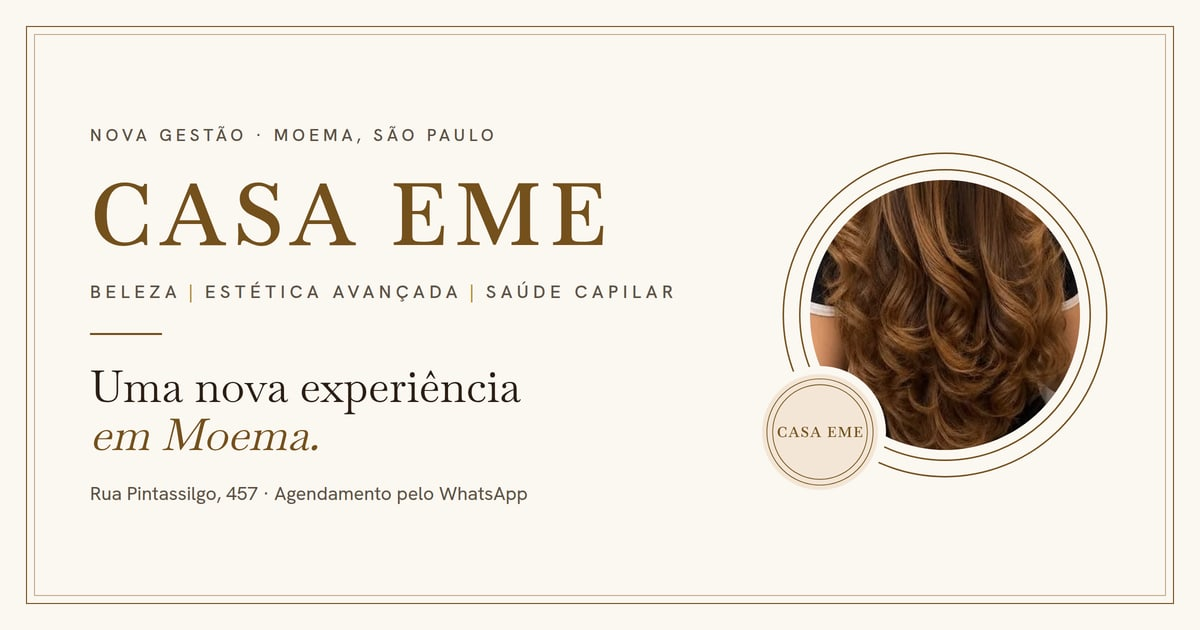
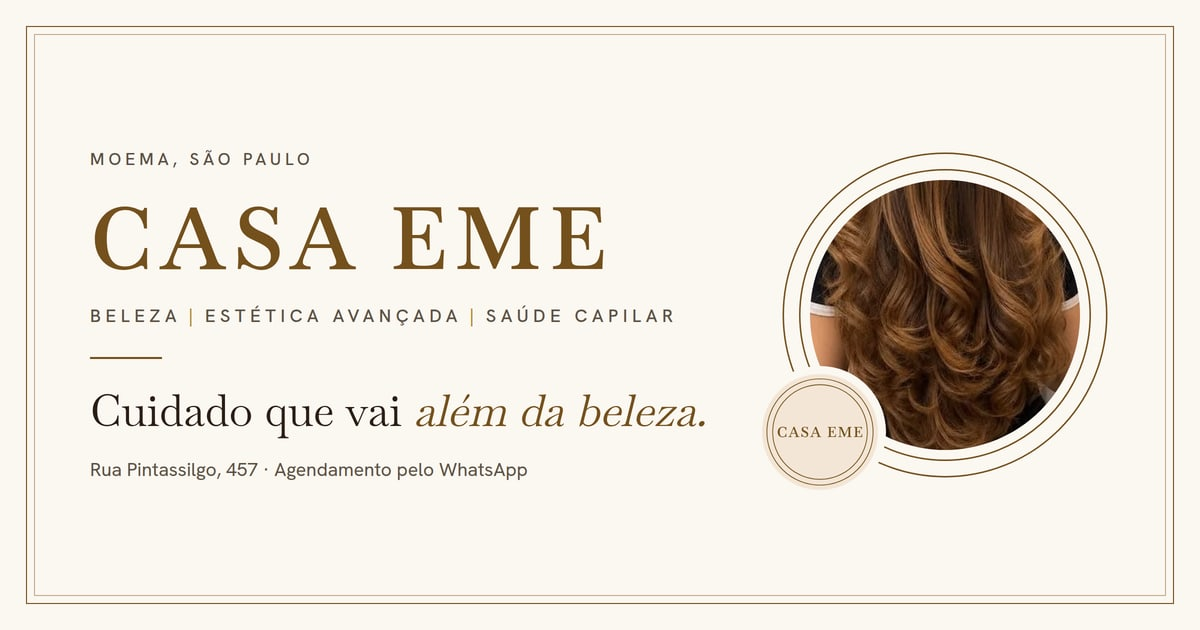
Sem "nova gestão" no site; legenda nova na foto do Gilberto
- Topo da home: sobretítulo só "Moema, São Paulo".
- Manifesto: rótulo "Manifesto". Página Sobre: título, descrição, chamada,
  rótulo "A casa", "Uma casa na Rua Pintassilgo" e texto sem "sob nova
  gestão". business.js perde os campos lema/gestao, que não eram usados.
- Cartão de compartilhamento refeito: agora repete o sobretítulo e o lema
  do topo (make-og.js lê destaques.js), sem "Nova gestão" nem "Uma nova
  experiência".
- Foto do Gilberto: "Gilberto · 30 anos dedicados à arte de transformar
  cabelos e valorizar cada detalhe".
- Teste reprova qualquer menção a nova gestão ou mudança de marca.

Claude-Session: https://claude.ai/code/session_01FKi8yNiR2GjiTsqC7CpoMj

Changed region(s): [[0.0617, 0.2111, 0.555, 0.573], [0.0617, 0.573, 0.5858, 0.8143]]

diff --git a/tools/test.js b/tools/test.js
@@ -317,6 +317,9 @@ const proibidos = [
   [/perca (at[ée] )?\d+|emagre[çc]a \d+|\d+\s?kg\b|\d+ quilos|em \d+ (dias|semanas) voc[eê]/i, 'promessa de emagrecimento'],
   [/cura (a |da )?(calv[ií]cie|alopecia|queda)|fim da (calv[ií]cie|queda)|nascer cabelo em/i, 'promessa capilar'],
   [/Rejane( Rabelo)?,? (é |a )?(m[ée]dica|dermatologista)|(m[ée]dica|dermatologista) Rejane/i, 'Dra. Rejane apresentada como médica'],
+  /* A casa pediu: quem visita não precisa saber da troca de gestão nem da
+     mudança de marca. */
+  [/nova gest[aã]o|sob nova (gest|dire|administra)|novos? (donos?|propriet[aá]rios?)|novo cap[ií]tulo|nova fase|rebranding|nova (marca|identidade)/i, 'menção a nova gestão ou mudança de marca'],
 ];
 /* Tempo de carreira informado pela casa (equipe.js) não conta como invenção. */
 const informados = Object.values(equipe).map((p) => p.experiencia).filter(Boolean);
@@ -415,7 +418,8 @@ const gilberto = equipe.gilberto;
 for (const pagina of ['index.html', 'sobre/index.html']) {
   const texto = textoDe(html[pagina]);
   ok(html[pagina].includes(`id="${gilberto.ancora}"`), `${pagina}: seção de quem cuida da beleza`);
-  ok(texto.includes(gilberto.funcao) && texto.includes(gilberto.experiencia), `${pagina}: função e experiência do Gilberto`);
+  ok(texto.toLowerCase().includes(gilberto.funcao.toLowerCase()) && texto.includes(gilberto.experiencia), `${pagina}: função e experiência do Gilberto`);
+  ok(texto.includes(gilberto.legenda), `${pagina}: legenda da foto do Gilberto`);
   ok(html[pagina].includes('/equipe/gilberto-'), `${pagina}: foto do Gilberto`);
 }
 ok(/categoria__responsavel[\s\S]{0,200}Gilberto/.test(html['servicos/index.html']), 'serviços: beleza com o Gilberto como responsável');

diff --git a/tools/make-og.js b/tools/make-og.js
@@ -14,6 +14,7 @@ import { readFile } from 'node:fs/promises';
 import { fileURLToPath } from 'node:url';
 import { chromium } from 'playwright-core';
 import sharp from 'sharp';
+import destaques from '../src/_data/destaques.js';
 
 const RAIZ = new URL('../', import.meta.url);
 const EXECUTAVEL = process.env.CHROMIUM || '/opt/pw-browsers/chromium';
@@ -31,6 +32,11 @@ const janela = (
     .jpeg({ quality: 92 })
     .toBuffer()
 ).toString('base64');
+
+/* Sobretítulo e lema vêm da primeira dobra (destaques.js → hero): o cartão
+   repete o que a home diz, sem texto próprio para ficar desatualizado. */
+const { sobre, lema, enfase } = destaques.hero;
+const lemaHtml = lema.replace(enfase, `<em>${enfase}</em>`);
 
 const html = `<!doctype html>
 <html lang="pt-BR"><head><meta charset="utf-8"><style>
@@ -66,11 +72,11 @@ const html = `<!doctype html>
   <div class="moldura"></div>
   <div class="conteudo">
     <div class="texto">
-      <p class="sobre">Nova gestão · Moema, São Paulo</p>
+      <p class="sobre">${sobre}</p>
       <h1 class="nome">Casa EME</h1>
       <p class="slogan">Beleza<i>|</i>Estética avançada<i>|</i>Saúde capilar</p>
       <div class="fio"></div>
-      <p class="lema">Uma nova experiência <em>em Moema.</em></p>
+      <p class="lema">${lemaHtml}</p>
       <p class="end">Rua Pintassilgo, 457 · Agendamento pelo WhatsApp</p>
     </div>
     <div class="visual">

diff --git a/src/_data/destaques.js b/src/_data/destaques.js
@@ -17,7 +17,7 @@ export default {
   /** Primeira dobra: o texto da arte "Cuidado que vai além da beleza", da própria casa. */
   hero: {
     /** Sobretítulo em versal; ' · ' separa as partes. */
-    sobre: 'Nova gestão · Moema, São Paulo',
+    sobre: 'Moema, São Paulo',
     lema: 'Cuidado que vai além da beleza.',
     /** Parte do lema que sai em itálico (precisa estar escrita igual no lema). */
     enfase: 'além da beleza.',

diff --git a/src/_data/equipe.js b/src/_data/equipe.js
@@ -120,7 +120,7 @@ export default {
     ],
     salao: 'Ezatto Cabeleireiros, em Florianópolis',
     ancora: 'quem-cuida-da-beleza',
-    legenda: 'Gilberto · Responsável pela beleza · 30 anos de experiência',
+    legenda: 'Gilberto · 30 anos dedicados à arte de transformar cabelos e valorizar cada detalhe',
     resumo: '30 anos de experiência',
     ficha: [
       { rotulo: 'Experiência', valor: '30 anos' },

diff --git a/src/_data/business.js b/src/_data/business.js
@@ -30,8 +30,6 @@ export default {
   /** Como o perfil se apresenta no Instagram: "CASA EME | Moema". */
   fullName: 'Casa EME | Moema',
   slogan: 'Beleza · Estética avançada · Saúde capilar',
-  lema: 'Uma nova experiência em Moema.',
-  gestao: 'Nova gestão.',
   /** Fecho do manifesto "Por que Casa EME?", publicado pela própria casa. */
   assinatura: 'Uma casa para cuidar de mim.',
 

diff --git a/src/assets/css/sections/destaques.css b/src/assets/css/sections/destaques.css
@@ -19,8 +19,8 @@
   color: var(--marca);
 }
 
-/* No celular, "Nova gestão" e o lema ficam um sobre o outro, sem o ponto
-   solto no fim da primeira linha. */
+/* No celular, se o sobretítulo tiver mais de uma parte, elas ficam uma sobre
+   a outra, sem o ponto solto no fim da primeira linha. */
 @media (max-width: 39.99rem) {
   .hero__sobre {
     flex-direction: column;

diff --git a/README.md b/README.md
@@ -51,7 +51,7 @@ Outros comandos:
 |---|---|
 | `npm run images` | gera os WebP a partir de `fotos/` (ver seção 4) |
 | `npm run video` | prepara o vídeo do depoimento para a web e gera a capa (ver seção 4) |
-| `npm run og` | redesenha o cartão de compartilhamento (`src/assets/img/og-casa-eme.jpg`) |
+| `npm run og` | redesenha o cartão de compartilhamento (`src/assets/img/og-casa-eme.jpg`) com o sobretítulo e o lema do topo da home (`destaques.js → hero`); rode de novo sempre que eles mudarem |
 | `npm run icons` | regera favicon e ícones PNG a partir dos SVG da marca |
 | `npm run test` | testes de conteúdo, SEO e segurança sobre o `dist/` |
 | `npm run qa` | auditoria no navegador em 8 larguras (320 → 1920px) |
@@ -136,6 +136,7 @@ explicando os campos. Mude, rode `npm run build`, confira e publique.
 | **Serviços** (incluir, tirar, renomear) | `src/_data/servicos.js` | alimenta home, serviços, estética, capilar, emagrecimento, FAQ e schema. A **ordem** das categorias é a ordem do índice e da numeração da home: as três primeiras são os destaques |
 | **Textos da home e das especialidades** (primeira dobra e credenciais, índice de serviços, saúde capilar, quem atende, depoimentos, emagrecimento, estética, beleza, frase do manifesto) | `src/_data/destaques.js` | `enfase` é o trecho do título que sai em itálico. Os textos foram enxutos de propósito: frases curtas, uma ideia por frase |
 | **Credenciais da primeira dobra** | `src/_data/destaques.js → hero.credenciais` | só fatos informados (registro, método, casos); `href` leva à seção da home |
+| **Sobretítulo e lema do topo** | `src/_data/destaques.js → hero.sobre / lema` | depois de mudar, rode `npm run og` (o cartão do WhatsApp repete esse texto). A casa pediu para não citar "nova gestão" nem mudança de marca: o teste reprova se aparecer |
 | **Dra. Rejane Rabelo** (formação, cursos, registro, fotos, etapas da avaliação) | `src/_data/equipe.js` → `rejane` | só o que está nas artes dela; nunca "médica" |
 | **Gilberto** (beleza: experiência, formação, cursos, salão, foto) | `src/_data/equipe.js` → `gilberto`; textos da seção em `destaques.js → gilberto` | só o que a casa informou; a seção é a mesma da Dra. Rejane (`src/_includes/sections/pessoa.njk`), com o retrato à direita |
 | **Responsável por uma categoria** (linha "Responsável" na página de serviços) | `src/_data/servicos.js` → `responsavel` | chave de `equipe.js`: `'rejane'`, `'gilberto'` |
